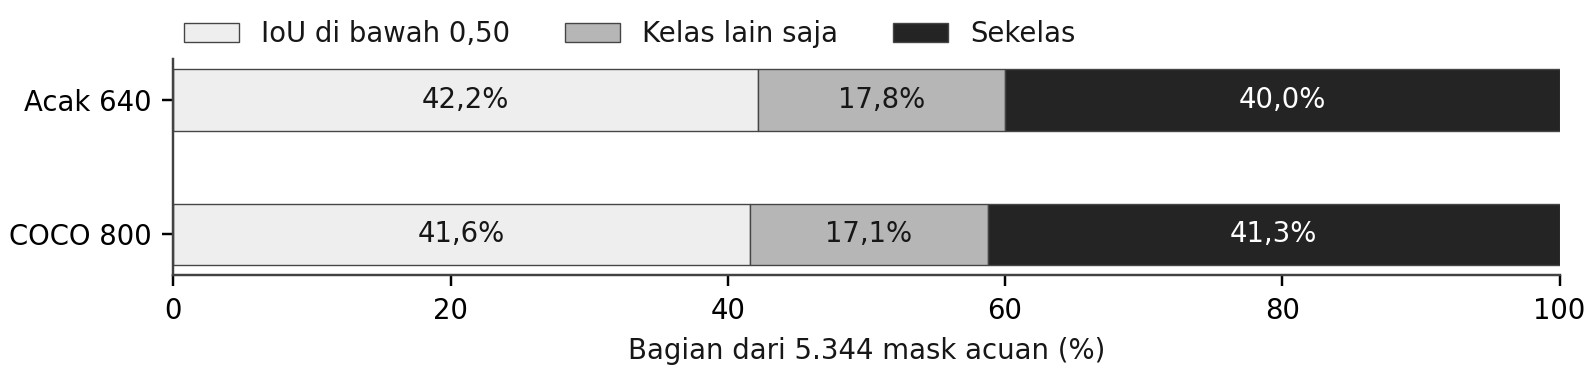
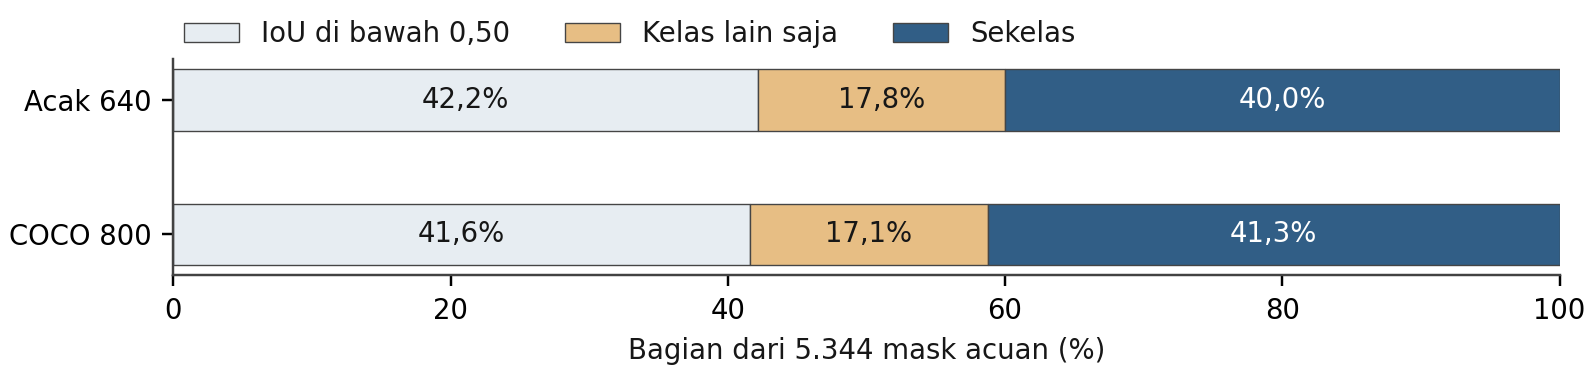
Gunakan tabel kantor dan pulihkan warna visual laporan

diff --git a/build_report_evidence.py b/build_report_evidence.py
@@ -1,4 +1,4 @@
-"""Collect traceable report metrics, original epoch logs, and monochrome figures."""
+"""Collect traceable report metrics, original epoch logs, and figures."""
 import argparse
 from collections import Counter, defaultdict
 import csv
@@ -266,8 +266,8 @@ def render_charts(data, destination):
     for ax, field, title in zip(axes, ("public_targets_pct", "phone_targets_pct"),
                                 ("Test publik · 359 foto", "Foto HP · 40 foto"), strict=True):
         for shift, condition, style in (
-            (-.18, "full", {"color": "#202020", "label": "Semua kelas"}),
-            (.18, "three", {"color": "#e5e5e5", "edgecolor": "#555555", "hatch": "///", "label": "Tiga kelas"}),
+            (-.18, "full", {"color": "#315E86", "label": "Semua kelas"}),
+            (.18, "three", {"color": "#A5D6CB", "edgecolor": "#236657", "hatch": "///", "label": "Tiga kelas"}),
         ):
             rows = [r for r in data["nrp8"] if r["condition"] == condition]
             bars = ax.bar([x + shift for x in range(3)], [r[field] for r in rows], .33, **style)
@@ -284,9 +284,9 @@ def render_charts(data, destination):
     for pos, row in enumerate(data["domain"]):
         public, phone = row["public_pct"], row["phone_pct"]
         ax.plot((public, phone), (pos, pos), color="#888888", linewidth=1.25, zorder=2)
-        ax.scatter(public, pos, marker="o", color="#191919", s=35, zorder=3,
+        ax.scatter(public, pos, marker="o", color="#315E86", s=35, zorder=3,
                    label="Publik" if pos == 0 else None)
-        ax.scatter(phone, pos, marker="s", facecolors="white", edgecolors="#242424", s=36, zorder=3,
+        ax.scatter(phone, pos, marker="s", facecolors="#A5D6CB", edgecolors="#236657", s=36, zorder=3,
                    label="Foto HP" if pos == 0 else None)
     ax.set_yticks(range(len(data["domain"])), [r["model"] for r in data["domain"]])
     ax.invert_yaxis()
@@ -302,7 +302,7 @@ def render_charts(data, destination):
         left = 0
         for key, label, shade, ink in zip(
             OUTCOMES, ("IoU di bawah 0,50", "Kelas lain saja", "Sekelas"),
-            ("#eeeeee", "#b6b6b6", "#242424"), ("#161616", "#171717", "#ffffff"), strict=True
+            ("#E7EDF2", "#E7BE84", "#315E86"), ("#161616", "#171717", "#ffffff"), strict=True
         ):
             share = 100 * row[key] / row["masks"]
             ax.barh(pos, share, left=left, height=.46, color=shade, edgecolor="#454545", linewidth=.45,
@@ -323,7 +323,7 @@ def render_charts(data, destination):
         for i, condition in enumerate(ordering):
             points = sorted((r for r in data["validation"] if r["condition"] == condition),
                             key=lambda r: r["seed"])
-            for row, dx, marker, fill in zip(points, (-.1, .1), ("o", "s"), ("#222222", "white"), strict=True):
+            for row, dx, marker, fill in zip(points, (-.1, .1), ("o", "s"), ("#315E86", "#A5D6CB"), strict=True):
                 ax.scatter(i+dx, row[field], marker=marker, edgecolors="#171717", facecolors=fill, s=32,
                            label=f"Seed {row['seed']}" if i == 0 else None, zorder=3)
             midpoint = sum(r[field] for r in points) / len(points)
@@ -341,9 +341,9 @@ def render_charts(data, destination):
     for pos, row in enumerate(data["gamma"]):
         before, after = row["control_pct"], row["gamma_pct"]
         ax.plot((before, after), (pos, pos), color="#777777", linewidth=1.2, zorder=2)
-        ax.scatter(before, pos, marker="o", facecolors="white", edgecolors="#181818", s=35, zorder=3,
+        ax.scatter(before, pos, marker="o", facecolors="white", edgecolors="#315E86", s=35, zorder=3,
                    label="Foto asal" if pos == 0 else None)
-        ax.scatter(after, pos, marker="s", color="#222222", s=31, zorder=3,
+        ax.scatter(after, pos, marker="s", color="#236657", s=31, zorder=3,
                    label="Gamma 0,65" if pos == 0 else None)
     ax.set_yticks(range(3), [f"{r['class']} · {r['instances']} mask" for r in data["gamma"]])
     ax.invert_yaxis()

diff --git a/render_research_report.py b/render_research_report.py
@@ -1,11 +1,10 @@
 """Render the study Markdown and its local figures as an A4 report."""
 import argparse
 from html import escape
-from io import BytesIO
 import re
 from pathlib import Path
 
-from PIL import Image as Raster, ImageOps
+from PIL import Image as Raster
 from reportlab.lib import colors
 from reportlab.lib.enums import TA_LEFT, TA_RIGHT
 from reportlab.lib.pagesizes import A4
@@ -20,7 +19,6 @@ from reportlab.platypus import (
 
 INK = colors.HexColor("#171717")
 MUTED = colors.HexColor("#515151")
-SHADE = colors.HexColor("#F1F1F1")
 LINE = colors.HexColor("#CFCFCF")
 MARGIN = 50
 WIDTH = A4[0] - MARGIN * 2
@@ -48,7 +46,7 @@ def styles():
     def variant(name, **properties):
         return ParagraphStyle(name, parent=body, **properties)
     return {
-        "title": variant("title", fontName=bold, fontSize=34, leading=39,
+        "title": variant("title", fontName=bold, fontSize=30, leading=35,
                          spaceBefore=25, spaceAfter=15, keepWithNext=True),
         "meta": variant("meta", fontName=bold, fontSize=10, textColor=MUTED, spaceAfter=12, keepWithNext=True),
         "head": variant("head", fontName=bold, fontSize=18, leading=22,
@@ -59,10 +57,9 @@ def styles():
         "list": variant("list", leftIndent=14, firstLineIndent=-14),
         "cell": variant("cell", fontSize=9, leading=12, spaceAfter=0),
         "cell_num": variant("cell_num", fontSize=9, leading=12, alignment=TA_RIGHT, spaceAfter=0),
-        "header": variant("header", fontName=bold, fontSize=9, leading=12,
-                          textColor=colors.white, spaceAfter=0),
+        "header": variant("header", fontName=bold, fontSize=9, leading=12, spaceAfter=0),
         "header_num": variant("header_num", fontName=bold, fontSize=9, leading=12,
-                              alignment=TA_RIGHT, textColor=colors.white, spaceAfter=0),
+                              alignment=TA_RIGHT, spaceAfter=0),
         "caption": variant("caption", fontSize=8.6, leading=11.4, textColor=MUTED, spaceAfter=9),
         "case": variant("case", fontName=bold, fontSize=11, leading=15, spaceAfter=4),
     }
@@ -85,11 +82,8 @@ def markup(line):
 def figure(path, limit=WIDTH, max_height=225):
     with Raster.open(path) as img:
         width, height = img.size
-        raster = BytesIO()
-        ImageOps.grayscale(img).save(raster, format="PNG")
-        raster.seek(0)
     scale = min(limit / width, max_height / height)
-    output = Image(raster, width=width * scale, height=height * scale)
+    output = Image(str(path), width=width * scale, height=height * scale)
     output.hAlign = "LEFT"
     return output
 
@@ -107,12 +101,11 @@ def data_table(rows, typography):
     table = LongTable(content, colWidths=[lead_weight * unit, *(unit for _ in range(columns - 1))],
                       repeatRows=1, hAlign="LEFT", spaceAfter=9)
     table.setStyle(TableStyle([
-        ("BACKGROUND", (0, 0), (-1, 0), INK),
-        ("ROWBACKGROUNDS", (0, 1), (-1, -1), [colors.white, SHADE]),
+        ("BACKGROUND", (0, 0), (-1, 0), colors.HexColor("#F4F4F4")),
+        ("GRID", (0, 0), (-1, -1), .45, LINE),
         ("VALIGN", (0, 0), (-1, -1), "TOP"),
         ("TOPPADDING", (0, 0), (-1, -1), 6),
         ("BOTTOMPADDING", (0, 0), (-1, -1), 6),
-        ("LINEBELOW", (0, -1), (-1, -1), .5, LINE),
     ]))
     return table
 
@@ -130,7 +123,7 @@ def render(source, destination):
             story.append(Paragraph(markup(line[2:]), typography["title"]))
         elif line.startswith(("**Visi Komputer", "**Studi komputasional")):
             story.append(Paragraph(markup(line), typography["meta"]))
-            story.append(HRFlowable(width="100%", thickness=1.3, color=INK, spaceBefore=3, spaceAfter=14))
+            story.append(HRFlowable(width="100%", thickness=.65, color=LINE, spaceBefore=3, spaceAfter=14))
         elif line == "<!-- page-break -->":
             story.append(PageBreak())
         elif line.startswith("## "):

diff --git a/README.md b/README.md
@@ -52,4 +52,4 @@ python build_report_evidence.py --figures-only
 python render_research_report.py
 ```
 
-Mode `--figures-only` memakai rekap yang tersedia dalam repo. PDF mengambil grafik tersebut dan menambahkan bukti foto bila berkas lokalnya tersedia. Untuk lima panel foto kasus, jalankan `inspect_failures.py --help` dan gunakan opsi `--monochrome` pada arsip evaluasi lokal.
+Mode `--figures-only` memakai rekap yang tersedia dalam repo. PDF mengambil grafik tersebut dan menambahkan bukti foto bila berkas lokalnya tersedia. Untuk membuat ulang lima panel foto kasus berwarna dari arsip evaluasi lokal, lihat opsi `inspect_failures.py --help`.
